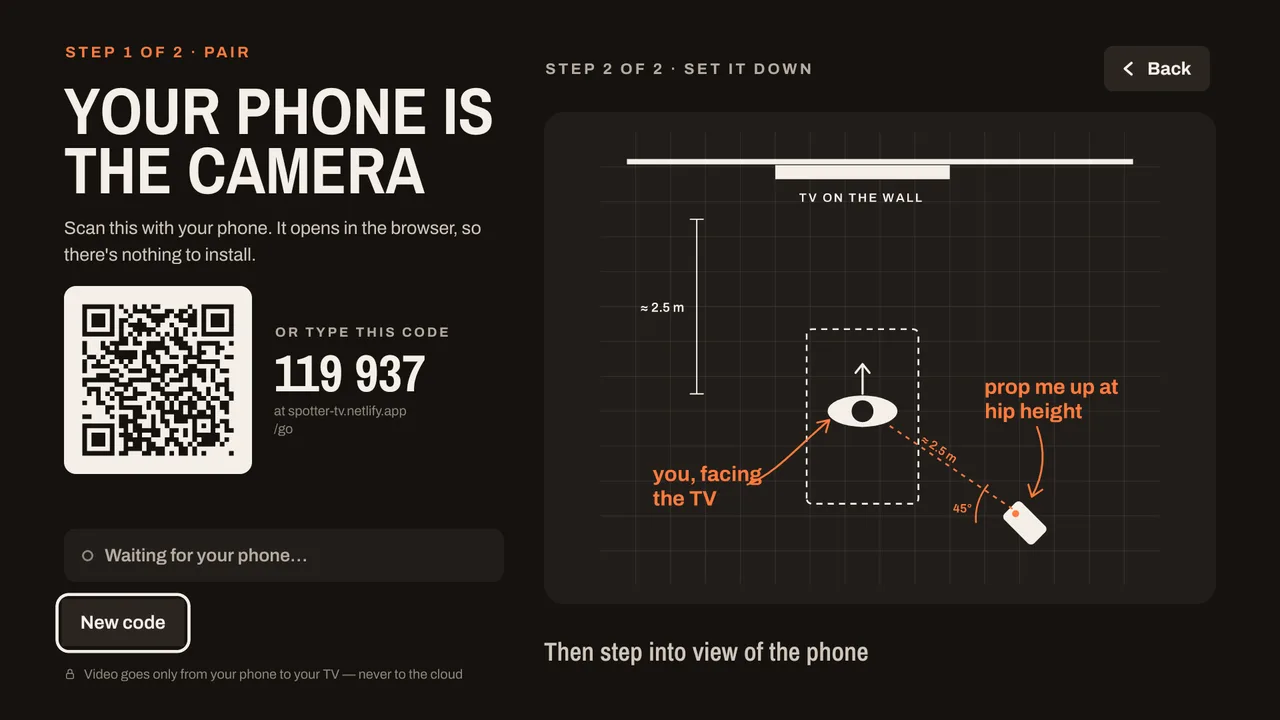
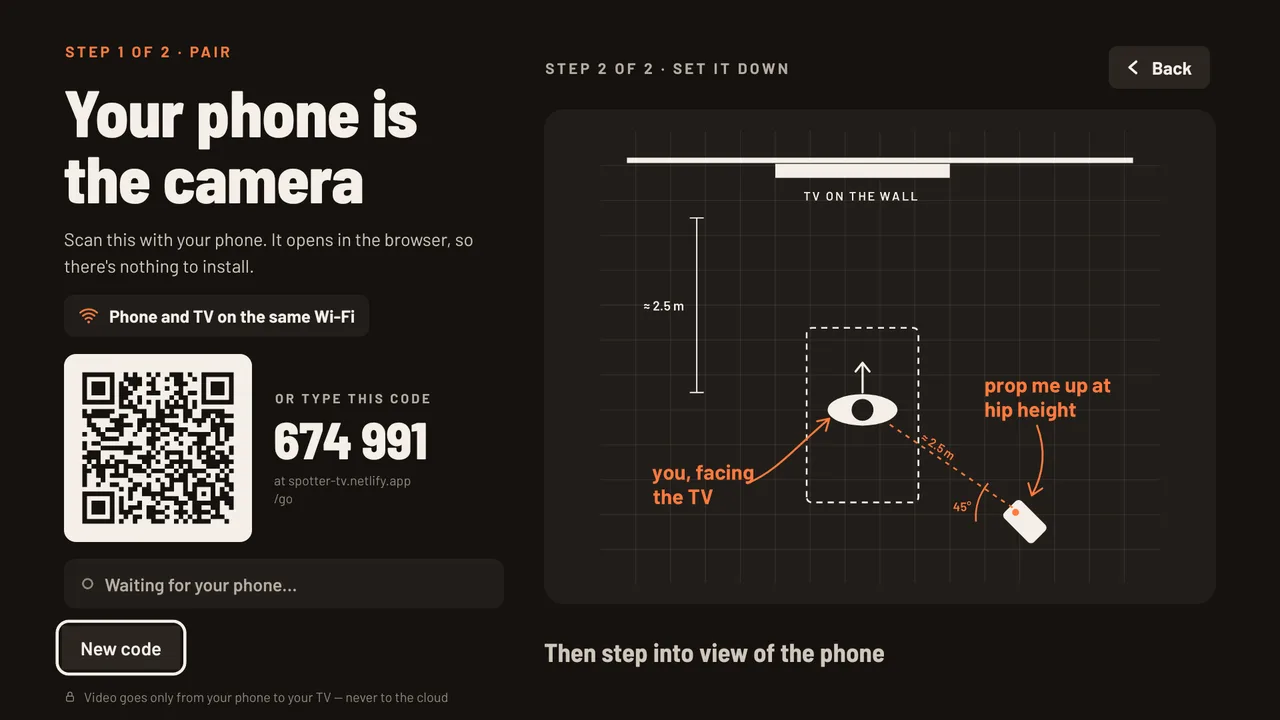
Website screenshots in the new Barlow look

diff --git a/index.html b/index.html
@@ -105,8 +105,8 @@
           </div>
         </div>
         <div class="figure-row">
-          <figure class="shot"><img src="assets/img/tv-pair.webp" width="1280" height="720" loading="lazy" alt="The pairing screen: a QR code, the code to type, and a check that head, hips, knees and feet are in view."></figure>
-          <figure class="shot"><img src="assets/img/tv-pick.webp" width="1280" height="720" loading="lazy" alt="Pick a move: squats, lunges, jumping jacks, push-ups, glutes and planks in sections, with the 3D trainer showing the one in focus."></figure>
+          <figure class="shot"><img src="assets/img/tv-pair.webp" width="1280" height="720" loading="lazy" alt="The pairing screen: a QR code, the code to type, a reminder to keep the phone and TV on the same Wi-Fi, and where to put the phone."></figure>
+          <figure class="shot"><img src="assets/img/tv-pick.webp" width="1280" height="720" loading="lazy" alt="Pick a move with the camera: squats, lunges, jumping jacks, push-ups and glute bridges in sections, easier versions marked, with the 3D trainer showing the one in focus."></figure>
         </div>
       </div>
     </section>
